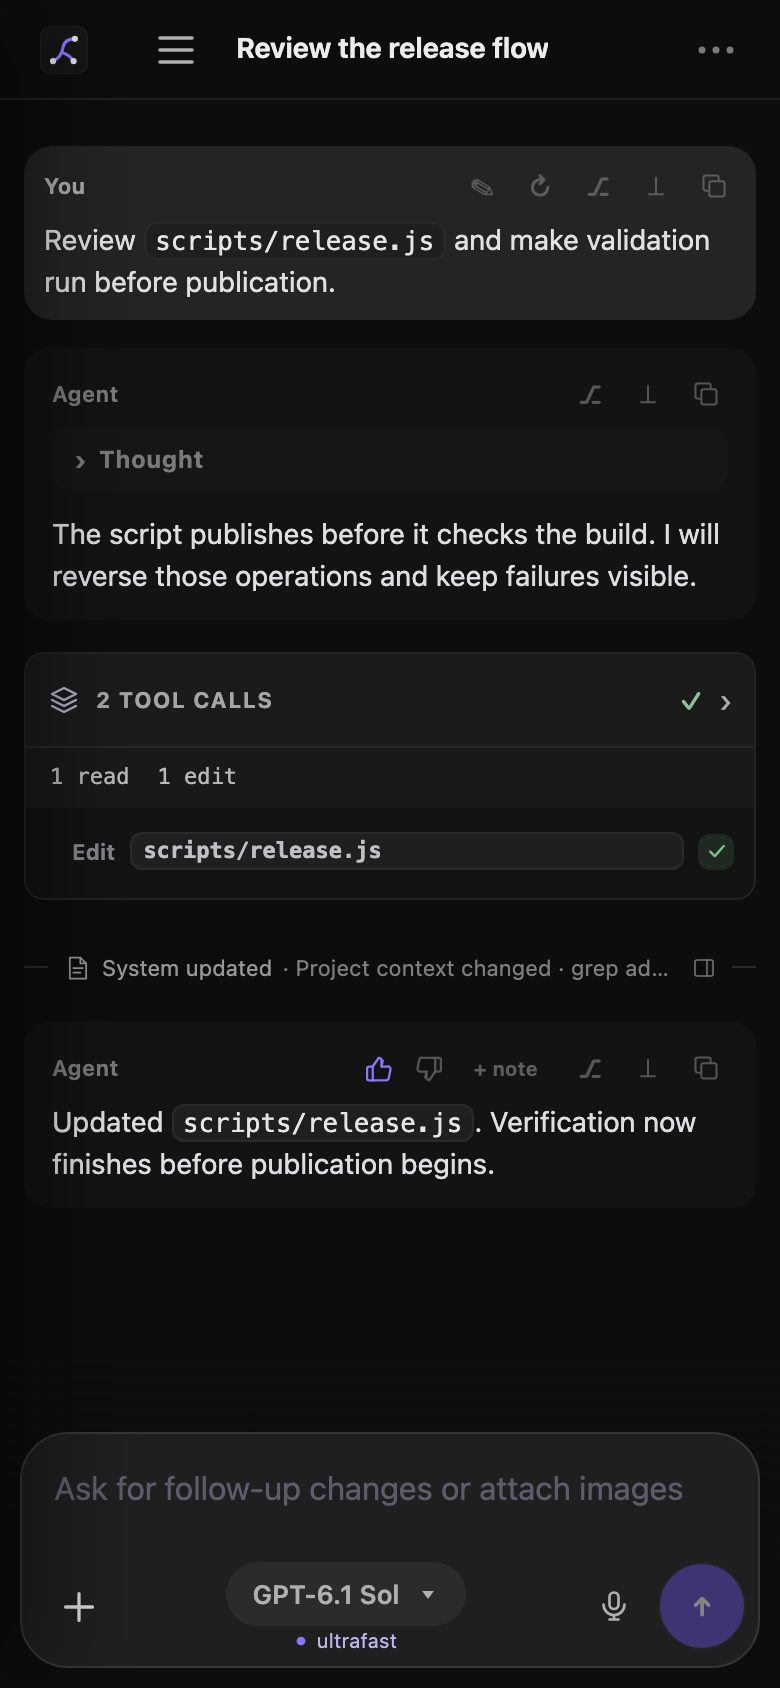
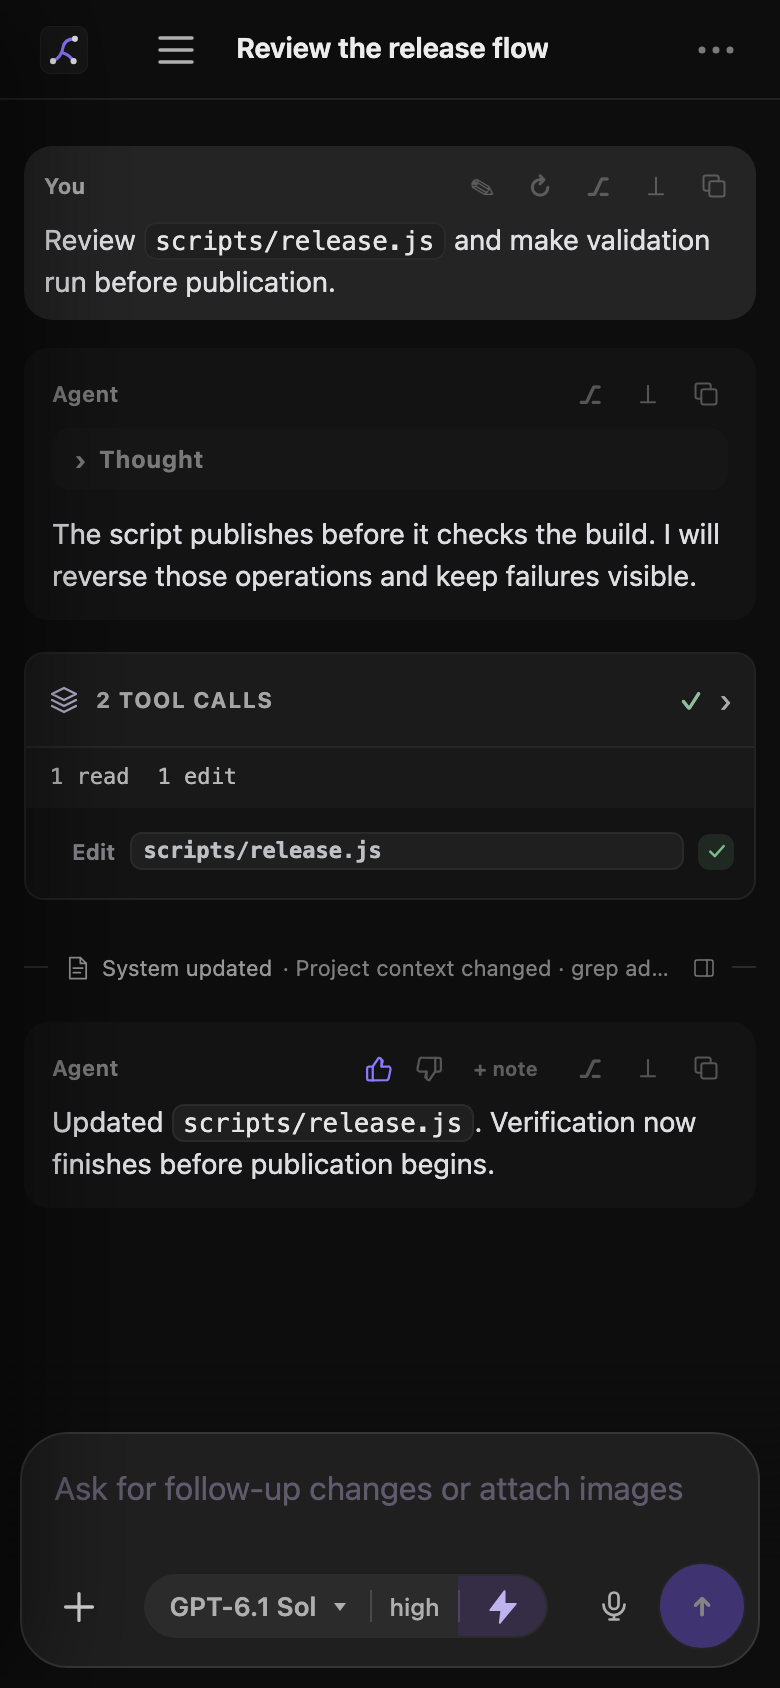
feat: add mobile thinking and speed controls

Changed region(s): [[0.2154, 0.9242, 0.5538, 0.9858], [0.5846, 0.9242, 0.7077, 0.9858]]

diff --git a/src/components/MobileComposerControls.vue b/src/components/MobileComposerControls.vue
@@ -25,14 +25,17 @@ const props = defineProps({
 })
 const emit = defineEmits(['select-model', 'select-thinking', 'toggle-ultrafast', 'pick-images', 'newline', 'toggle-research', 'interrupt', 'open'])
 const page = ref('')
+const rootPage = ref('')
+const selecting = ref(false)
 const query = ref('')
 const dialog = ref(null)
 const opener = ref(null)
 const fallbackId = useId()
 const opened = computed(() => Boolean(page.value))
-const title = computed(() => ({ options: 'Session options', thinking: 'Thinking', service: 'Service tier', add: 'Add to message', details: 'Session details' })[page.value])
+const title = computed(() => ({ options: 'Session options', thinking: 'Thinking', service: 'Speed', add: 'Add to message', details: 'Session details' })[page.value])
 const selectedModel = computed(() => props.availableModels.find(model => props.modelKey(model) === props.selectedModelKey))
 const modelLabel = computed(() => selectedModel.value?.name || props.currentModelLabel || 'Choose model')
+const thinkingLabel = computed(() => formatMode(props.thinkingLevel) || 'off')
 const models = computed(() => {
   const terms = query.value.toLowerCase().trim().split(/\s+/).filter(Boolean)
   return props.availableModels.filter(model => terms.every(term => `${model.name} ${model.id} ${model.provider}`.toLowerCase().includes(term)))
@@ -45,12 +48,20 @@ watch(page, async () => {
   await nextTick()
   if (page.value) dialog.value?.focus({ preventScroll: true })
 })
+watch([selecting, () => props.settingsDisabled], ([pending, disabled]) => {
+  if (!pending || disabled) return
+  selecting.value = false
+  if (!props.settingsError) dismiss()
+}, { flush: 'post' })
 function open(name, event) {
   opener.value = event?.currentTarget || document.activeElement
+  rootPage.value = name
+  selecting.value = false
   page.value = name
 }
 function dismiss() {
   if (!page.value) return false
+  selecting.value = false
   page.value = ''
   return true
 }
@@ -63,28 +74,39 @@ function newline() {
   emit('newline')
 }
 function chooseThinking(level) {
+  if (props.disabled || props.settingsDisabled) return
   emit('select-thinking', level)
-  page.value = 'options'
+  if (rootPage.value === 'options') page.value = 'options'
+  else selecting.value = true
 }
 function chooseTier(enabled) {
-  if (props.settingsDisabled || (enabled && !props.ultrafastAvailable)) return
+  if (props.disabled || props.settingsDisabled || (enabled && !props.ultrafastAvailable)) return
   if (enabled !== props.ultrafastEnabled) emit('toggle-ultrafast')
-  page.value = 'options'
+  if (rootPage.value === 'options') page.value = 'options'
+  else selecting.value = true
 }
 defineExpose({ open, dismiss, opened })
 </script>
 
 <template>
   <button :id="fallbackId" class="mobile-add-control" type="button" aria-label="Add to message" aria-haspopup="dialog" :disabled="disabled" :aria-expanded="page === 'add'" @mousedown.prevent @click="open('add', $event)"><svg viewBox="0 0 24 24" aria-hidden="true"><path d="M12 5v14M5 12h14" /></svg></button>
-  <button class="mobile-model-control" type="button" aria-haspopup="dialog" :aria-label="`${modelLabel}, ${formatMode(thinkingLevel)} thinking, ${ultrafastEnabled ? 'Ultrafast' : 'Standard'} service. Open settings`" :aria-expanded="['options', 'thinking', 'service'].includes(page)" :disabled="disabled || settingsDisabled" @click="open('options', $event)">
-    <span class="mobile-model-content"><span class="mobile-model-title"><span>{{ modelLabel }}</span><svg class="mobile-model-caret" viewBox="0 0 12 12" aria-hidden="true"><path d="M3 4.5h6L6 8.5z" /></svg></span><small v-if="ultrafastEnabled" class="mobile-ultrafast"><svg viewBox="0 0 8 8" aria-hidden="true"><circle cx="4" cy="4" r="2.5" /></svg>ultrafast</small></span>
-  </button>
+  <div class="mobile-model-controls" role="group" aria-label="Model, thinking, and speed">
+    <div class="mobile-model-capsule">
+      <button class="mobile-setting-control mobile-model-control" type="button" aria-haspopup="dialog" :aria-label="`Model: ${modelLabel}. Open settings`" :aria-expanded="rootPage === 'options' && ['options', 'thinking', 'service'].includes(page)" :disabled="disabled || settingsDisabled" @click="open('options', $event)">
+        <span class="mobile-model-title"><span>{{ modelLabel }}</span><svg class="mobile-model-caret" viewBox="0 0 12 12" aria-hidden="true"><path d="M3 4.5h6L6 8.5z" /></svg></span>
+      </button>
+      <button class="mobile-setting-control mobile-thinking-control" type="button" aria-haspopup="dialog" :aria-label="`Thinking: ${thinkingLabel}. Change thinking`" :aria-expanded="page === 'thinking'" :disabled="disabled || settingsDisabled || !availableThinkingLevels.length" :title="availableThinkingLevels.length ? `Thinking: ${thinkingLabel}` : 'Thinking is not available for this model.'" @click="open('thinking', $event)">{{ thinkingLabel }}</button>
+      <button class="mobile-setting-control mobile-speed-control" :class="{ active: ultrafastEnabled }" type="button" aria-haspopup="dialog" :aria-label="`Speed: ${ultrafastEnabled ? 'Ultrafast' : 'Standard'}. Change speed`" :aria-expanded="page === 'service'" :disabled="disabled || settingsDisabled" :title="ultrafastEnabled ? 'Speed: Ultrafast. Premium pricing.' : 'Speed: Standard'" @click="open('service', $event)">
+        <span class="mobile-speed-face"><svg viewBox="0 0 24 24" aria-hidden="true"><path d="M13 2 4 14h7l-1 8 10-12h-7V2Z" /></svg></span>
+      </button>
+    </div>
+  </div>
   <Teleport to="body">
     <Transition name="mobile-sheet">
       <div v-if="opened" class="mobile-sheet-backdrop" @click.self="dismiss" @keydown.esc.prevent.stop="dismiss">
         <section ref="dialog" class="mobile-composer-sheet" :class="{ 'is-options': page === 'options' }" role="dialog" aria-modal="true" :aria-label="title" tabindex="-1">
           <div class="mobile-sheet-handle" aria-hidden="true"></div>
-          <header class="mobile-sheet-heading"><button v-if="page === 'thinking' || page === 'service'" type="button" aria-label="Back to session options" @click="page = 'options'">‹</button><h2>{{ title }}</h2><button type="button" class="mobile-sheet-done" @click="dismiss">Done</button></header>
+          <header class="mobile-sheet-heading"><button v-if="rootPage === 'options' && (page === 'thinking' || page === 'service')" type="button" aria-label="Back to session options" @click="page = 'options'">‹</button><h2>{{ title }}</h2><button type="button" class="mobile-sheet-done" @click="dismiss">Done</button></header>
           <p v-if="settingsError" class="mobile-sheet-error" role="alert">{{ settingsError }}</p>
           <div class="mobile-sheet-body">
             <template v-if="page === 'options'">
@@ -95,7 +117,7 @@ defineExpose({ open, dismiss, opened })
                 <p v-if="!models.length">{{ availableModels.length ? 'No matching models.' : 'No models available.' }}</p>
               </div>
               <h3>Options</h3>
-              <div class="mobile-sheet-choices"><button type="button" :disabled="disabled || settingsDisabled || !availableThinkingLevels.length" @click="page = 'thinking'"><span>Thinking</span><span class="mobile-option-value">{{ formatMode(thinkingLevel) }}</span><span aria-hidden="true">›</span></button><button type="button" :disabled="disabled || settingsDisabled" @click="page = 'service'"><span>Service tier</span><span class="mobile-option-value" :class="{ 'mobile-ultrafast': ultrafastEnabled }">{{ ultrafastEnabled ? 'Ultrafast' : 'Standard' }}</span><span aria-hidden="true">›</span></button></div>
+              <div class="mobile-sheet-choices"><button type="button" :disabled="disabled || settingsDisabled || !availableThinkingLevels.length" @click="page = 'thinking'"><span>Thinking</span><span class="mobile-option-value">{{ formatMode(thinkingLevel) }}</span><span aria-hidden="true">›</span></button><button type="button" :disabled="disabled || settingsDisabled" @click="page = 'service'"><span>Speed</span><span class="mobile-option-value" :class="{ 'mobile-ultrafast': ultrafastEnabled }">{{ ultrafastEnabled ? 'Ultrafast' : 'Standard' }}</span><span aria-hidden="true">›</span></button></div>
             </template>
             <template v-else-if="page === 'thinking'">
               <p>Choose the thinking level for your next message.</p>
@@ -103,7 +125,7 @@ defineExpose({ open, dismiss, opened })
             </template>
             <template v-else-if="page === 'service'">
               <div class="mobile-sheet-choices"><button type="button" :disabled="disabled || settingsDisabled" :aria-pressed="!ultrafastEnabled" @click="chooseTier(false)"><span>Standard<small>Default service tier</small></span><span v-if="!ultrafastEnabled" aria-hidden="true">✓</span></button><button type="button" :disabled="disabled || settingsDisabled || !ultrafastAvailable" :aria-pressed="ultrafastEnabled" @click="chooseTier(true)"><span>Ultrafast<small>Premium pricing</small></span><span v-if="ultrafastEnabled" aria-hidden="true">✓</span></button></div>
-              <p class="mobile-sheet-note">{{ ultrafastAvailable ? 'Ultrafast stays visible beside the model while enabled.' : 'Ultrafast is not available for this model.' }}</p>
+              <p class="mobile-sheet-note">{{ ultrafastAvailable ? 'Applies to this session only.' : 'Ultrafast is not available for this model.' }}</p>
             </template>
             <div v-else-if="page === 'add'" class="mobile-sheet-choices"><button type="button" :disabled="disabled || imageDisabled" @click="addImage"><span>Add image</span></button><button type="button" :disabled="disabled" @click="newline"><span>New line</span></button><button v-if="running" type="button" :disabled="interrupting" @click="emit('interrupt'); dismiss()"><span>{{ interrupting ? 'Stopping' : 'Stop generation' }}</span></button><button v-if="researchEnabled" type="button" :disabled="disabled || imageDisabled || researchDisabled" :aria-pressed="research" @click="emit('toggle-research')"><span>Research</span><span v-if="research" aria-hidden="true">✓</span></button></div>
             <template v-else-if="page === 'details'"><h3>Enabled tools · {{ toolNames.length }}</h3><ul class="mobile-tool-inventory"><li v-for="tool in toolNames" :key="tool">{{ tool }}</li></ul><p v-if="!toolNames.length">No tools are enabled.</p></template>
@@ -115,19 +137,28 @@ defineExpose({ open, dismiss, opened })
 </template>
 
 <style scoped>
-.mobile-add-control, .mobile-model-control { display: none; }
+.mobile-add-control, .mobile-model-controls { display: none; }
 @media (max-width: 760px) {
-  .mobile-add-control, .mobile-model-control { display: flex; align-items: center; justify-content: center; min-height: 44px; border: 0; border-radius: 10px; padding: 0; background: transparent; color: #d7d7d7; font: inherit; }
-  .mobile-add-control { flex: none; width: 44px; }
+  .mobile-add-control, .mobile-model-controls { display: flex; align-items: center; justify-content: center; min-height: 44px; }
+  .mobile-add-control { flex: none; width: 44px; border: 0; border-radius: 10px; padding: 0; background: transparent; color: #d7d7d7; font: inherit; }
   .mobile-add-control svg { width: 23px; height: 23px; fill: none; stroke: currentColor; stroke-width: 1.7; stroke-linecap: round; }
-  .mobile-model-control { flex: 1; min-width: 0; padding: 0 3px; }
-  .mobile-model-content { display: flex; flex-direction: column; align-items: center; min-width: 0; max-width: 100%; gap: 2px; }
-  .mobile-model-title { display: flex; align-items: center; gap: 8px; height: 32px; max-width: 100%; min-width: 0; border: 1px solid transparent; border-radius: 999px; padding: 6px 12px; background: #2b2b2c; color: var(--muted-strong); font-size: 13px; font-weight: 600; line-height: 1; transition: background-color var(--motion-base) var(--ease-decelerate), border-color var(--motion-base) var(--ease-decelerate), color var(--motion-base) var(--ease-decelerate); }
-  .mobile-model-control:hover:not(:disabled) .mobile-model-title, .mobile-model-control[aria-expanded='true'] .mobile-model-title { border-color: var(--accent-border); background: #201a32; color: var(--text); }
+  .mobile-model-controls { flex: 1; min-width: 0; padding: 0 3px; }
+  .mobile-model-capsule { display: flex; align-items: center; min-width: 0; max-width: 100%; height: 32px; border: 1px solid transparent; border-radius: 999px; background: #2b2b2c; color: var(--muted-strong); }
+  .mobile-setting-control { position: relative; display: flex; flex: none; align-items: center; justify-content: center; min-width: 44px; height: 44px; border: 0; padding: 0; background: transparent; color: inherit; font: inherit; transition: color var(--motion-base) var(--ease-decelerate); }
+  .mobile-setting-control + .mobile-setting-control::before { position: absolute; left: 0; width: 1px; height: 16px; background: #4a4a4c; content: ''; }
+  .mobile-setting-control:hover:not(:disabled), .mobile-setting-control[aria-expanded='true'] { color: var(--text); }
+  .mobile-model-control { flex: 0 1 auto; border-radius: 999px 0 0 999px; padding: 0 9px 0 12px; }
+  .mobile-model-title { display: flex; align-items: center; gap: 6px; min-width: 0; font-size: 13px; font-weight: 600; line-height: 1; }
   .mobile-model-title > span:first-child { overflow: hidden; min-width: 0; text-overflow: ellipsis; white-space: nowrap; }
   .mobile-model-caret { flex: none; width: 12px; height: 12px; fill: currentColor; }
-  .mobile-model-content small { display: flex; align-items: center; gap: 4px; height: 10px; font-size: 10px; line-height: 1; }
-  .mobile-model-content small svg { width: 7px; height: 7px; fill: var(--accent); }
+  .mobile-thinking-control { padding: 0 4px; font-size: 12px; font-weight: 500; }
+  .mobile-speed-control { width: 44px; border-radius: 0 999px 999px 0; }
+  .mobile-speed-face { display: flex; align-items: center; justify-content: center; width: 44px; height: 30px; border-radius: inherit; transition: background-color var(--motion-base) var(--ease-decelerate); }
+  .mobile-speed-control svg { width: 19px; height: 19px; fill: none; stroke: currentColor; stroke-width: 1.6; stroke-linecap: round; stroke-linejoin: round; }
+  .mobile-speed-control.active { color: #bfb3ef; }
+  .mobile-speed-control.active::before { background: #514365; }
+  .mobile-speed-control.active .mobile-speed-face { background: #342d45; }
+  .mobile-speed-control.active svg { fill: currentColor; stroke-width: 1.2; }
   .mobile-ultrafast { color: #bfb3ef !important; }
   .mobile-sheet-backdrop { position: fixed; z-index: 80; top: var(--app-top, 0px); left: 0; width: 100%; height: var(--app-height, 100dvh); display: flex; align-items: flex-end; background: #0008; }
   .mobile-composer-sheet { display: flex; flex-direction: column; width: 100%; max-height: calc(100% - 16px - env(safe-area-inset-top, 0px)); min-height: 0; border: 1px solid #3a3a3a; border-bottom: 0; border-radius: 24px 24px 0 0; outline: none; background: #181818; color: #e5e5e5; box-shadow: 0 -12px 50px #0005; padding-bottom: env(safe-area-inset-bottom, 0px); }
@@ -164,6 +195,6 @@ defineExpose({ open, dismiss, opened })
   .mobile-sheet-leave-active { pointer-events: none; }
 }
 @media (prefers-reduced-motion: reduce) {
-  .mobile-model-title, .mobile-sheet-enter-active, .mobile-sheet-leave-active, .mobile-sheet-enter-active .mobile-composer-sheet, .mobile-sheet-leave-active .mobile-composer-sheet { transition: none; }
+  .mobile-setting-control, .mobile-speed-face, .mobile-sheet-enter-active, .mobile-sheet-leave-active, .mobile-sheet-enter-active .mobile-composer-sheet, .mobile-sheet-leave-active .mobile-composer-sheet { transition: none; }
 }
 </style>

diff --git a/scripts/docs-screenshots.js b/scripts/docs-screenshots.js
@@ -2877,9 +2877,10 @@ async function capture({
       if (['home', 'ultrafast'].includes(scenario)) {
         const enabled = scenario === 'ultrafast'
         if (await page.locator('.mobile-model-control:visible').count()) {
-          const indicator = await page.locator('.mobile-ultrafast:visible').count()
-          if (indicator !== (enabled ? 1 : 0)) {
-            throw new Error('Unexpected mobile Ultrafast indicator state')
+          const control = page.locator('.mobile-speed-control:visible')
+          if (await control.count() !== 1
+            || await control.evaluate(element => element.classList.contains('active')) !== enabled) {
+            throw new Error('Unexpected mobile speed control state')
           }
         } else {
           const chip = page.locator('.ultrafast-toggle:visible').first()

diff --git a/docs/user-guide/mobile.md b/docs/user-guide/mobile.md
@@ -2,9 +2,9 @@
 
 Leyline uses a mobile layout when the viewport is 760 pixels wide or less.
 
-![Leyline mobile session with the model capsule and ultrafast indicator](../assets/screenshots/mobile-session.png)
+![Leyline mobile session with separate model, thinking, and speed controls](../assets/screenshots/mobile-session.png)
 
-*The mobile composer uses one action row and a desktop-style model capsule.*
+*The mobile composer uses one action row with a three-part settings capsule.*
 
 ## Use the mobile header
 
@@ -105,15 +105,15 @@ Select the close button or backdrop to return to the transcript. See [Subagents]
 
 ## Use the mobile composer
 
-The composer stays above the bottom edge. Its action row contains **Add to message**, the model capsule, dictation, and Send. During dictation, a compact waveform and gray **Finish** chip appear above the composer.
+The composer stays above the bottom edge. Its action row contains **Add to message**, the settings capsule, dictation, and Send. During dictation, a compact waveform and gray **Finish** chip appear above the composer.
 
 ![Mobile dictation with a compact waveform and gray Finish chip](../assets/screenshots/dictation-mobile.png)
 
 Browser dictation is the default in normal web browsers. It is browser-managed and may use an online service. Select **Local models** in Settings to use Parakeet or Whisper Turbo. In a browser, local-model speech runs on the Leyline server that serves the app. In Electron, local-model speech runs on this device. Dictation requires a secure context: use HTTPS or localhost, not ordinary LAN HTTP. See [Dictation](./dictation) for setup and processing details.
 
-Select the gray model capsule to open **Session options**. The capsule shows the model's display name. The sheet contains model selection, **Thinking**, and **Service tier**.
+The gray capsule has three separate controls. Select the model name to open **Session options**. Select the thinking level to open **Thinking**, or the lightning bolt to open **Speed**.
 
-When enabled, a dot and `ultrafast` label appear below the capsule. Supported models, premium pricing, and session scope match desktop. See [Runtime controls](./runtime-controls#use-ultrafast).
+The bolt stays visible in both speed modes. It is gray and outlined for **Standard**, or lavender and filled for **Ultrafast**. For unsupported models, **Speed** explains why Ultrafast is unavailable. Supported models, premium pricing, and session scope match desktop. See [Runtime controls](./runtime-controls#use-ultrafast).
 
 During an active run, an empty draft shows **Stop**. Add text or an image to restore the send arrow and queue the draft in **Up next**. Select **Send options** beside the arrow for **Queue next task** or **Steer current run**.
 

diff --git a/docs/developer-guide/screenshots-and-video.md b/docs/developer-guide/screenshots-and-video.md
@@ -68,10 +68,10 @@ DOCS_SCREENSHOT_FILTER=composer-queue.png,composer-queue-held.png,activity.png,a
 For mobile header and composer changes:
 
 ```bash
-DOCS_SCREENSHOT_FILTER=mobile-session.png,mobile-sidebar.png,subagent-inspector-mobile.png,subagent-live-tail-mobile.png,deep-research-mobile.png,trace-mobile.png npm run docs:screenshots
+DOCS_SCREENSHOT_FILTER=mobile-session.png,dictation-mobile.png,mobile-sidebar.png,subagent-inspector-mobile.png,subagent-live-tail-mobile.png,deep-research-mobile.png,trace-mobile.png npm run docs:screenshots
 ```
 
-These captures include the mobile header or composer, sometimes behind a sheet. Check the 48-pixel header targets, the gray model capsule inside its 44-pixel target, and the Ultrafast indicator below it. Full-screen Settings and Activity captures hide these controls and do not need a refresh for this change.
+These captures include the mobile header or composer, sometimes behind a sheet. Check the 48-pixel header targets and the 32-pixel gray capsule with separate model, thinking, and speed controls. Each capsule control has a touch target of at least 44 by 44 pixels. The speed bolt is outlined gray for Standard and filled lavender for Ultrafast. For composer-only changes, refresh `mobile-session.png` and `dictation-mobile.png`. The other captures hide the capsule behind a sidebar, sheet, or full-screen view.
 
 For expanded tool previews:
 
